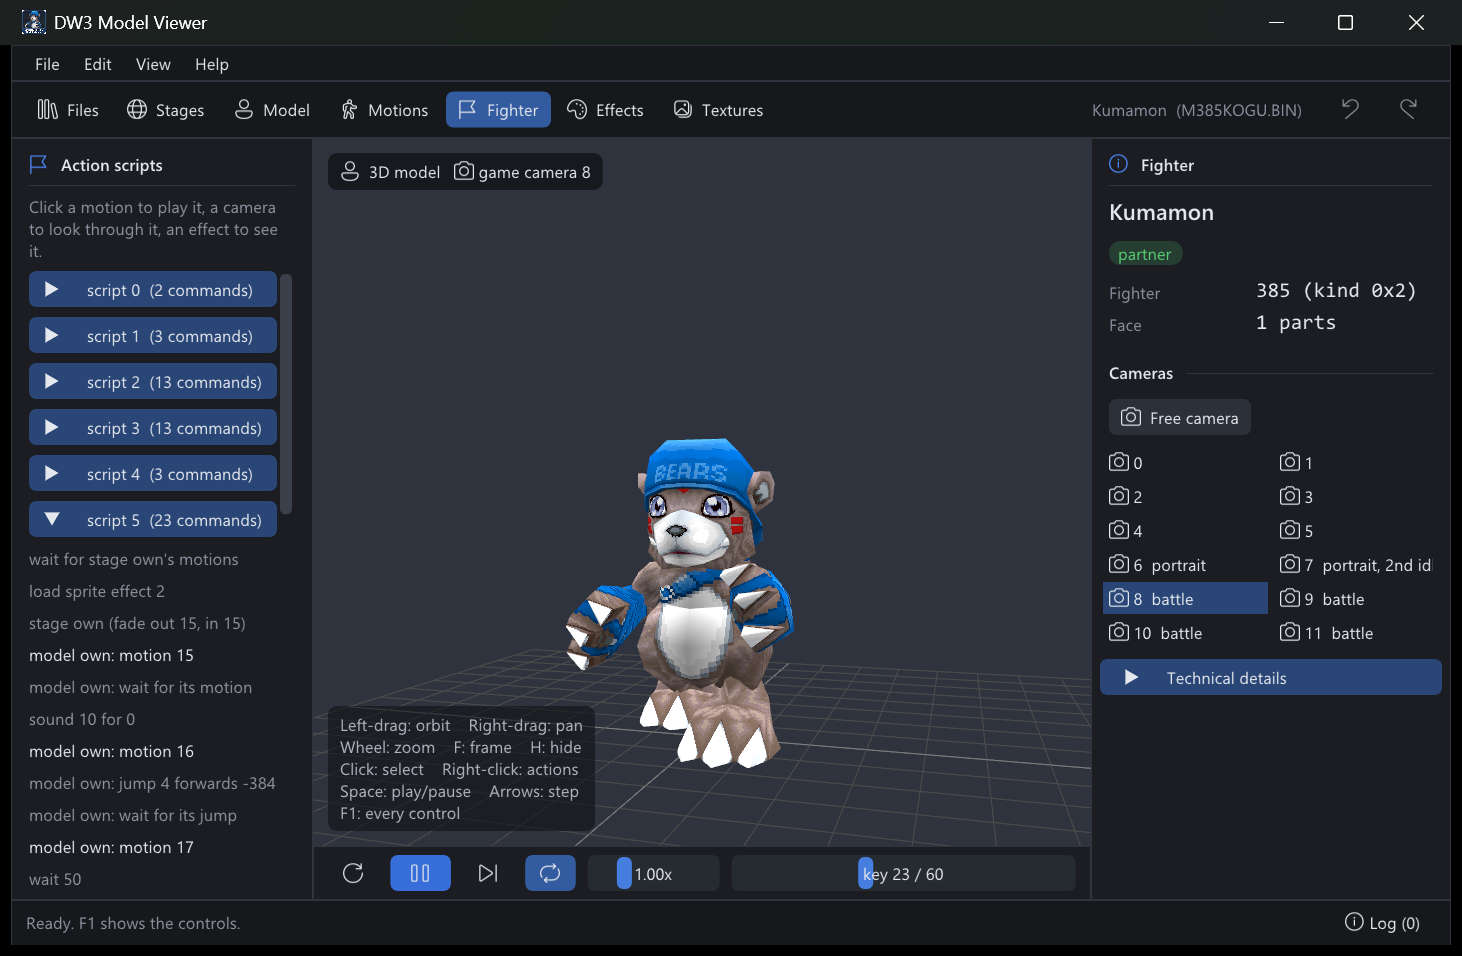
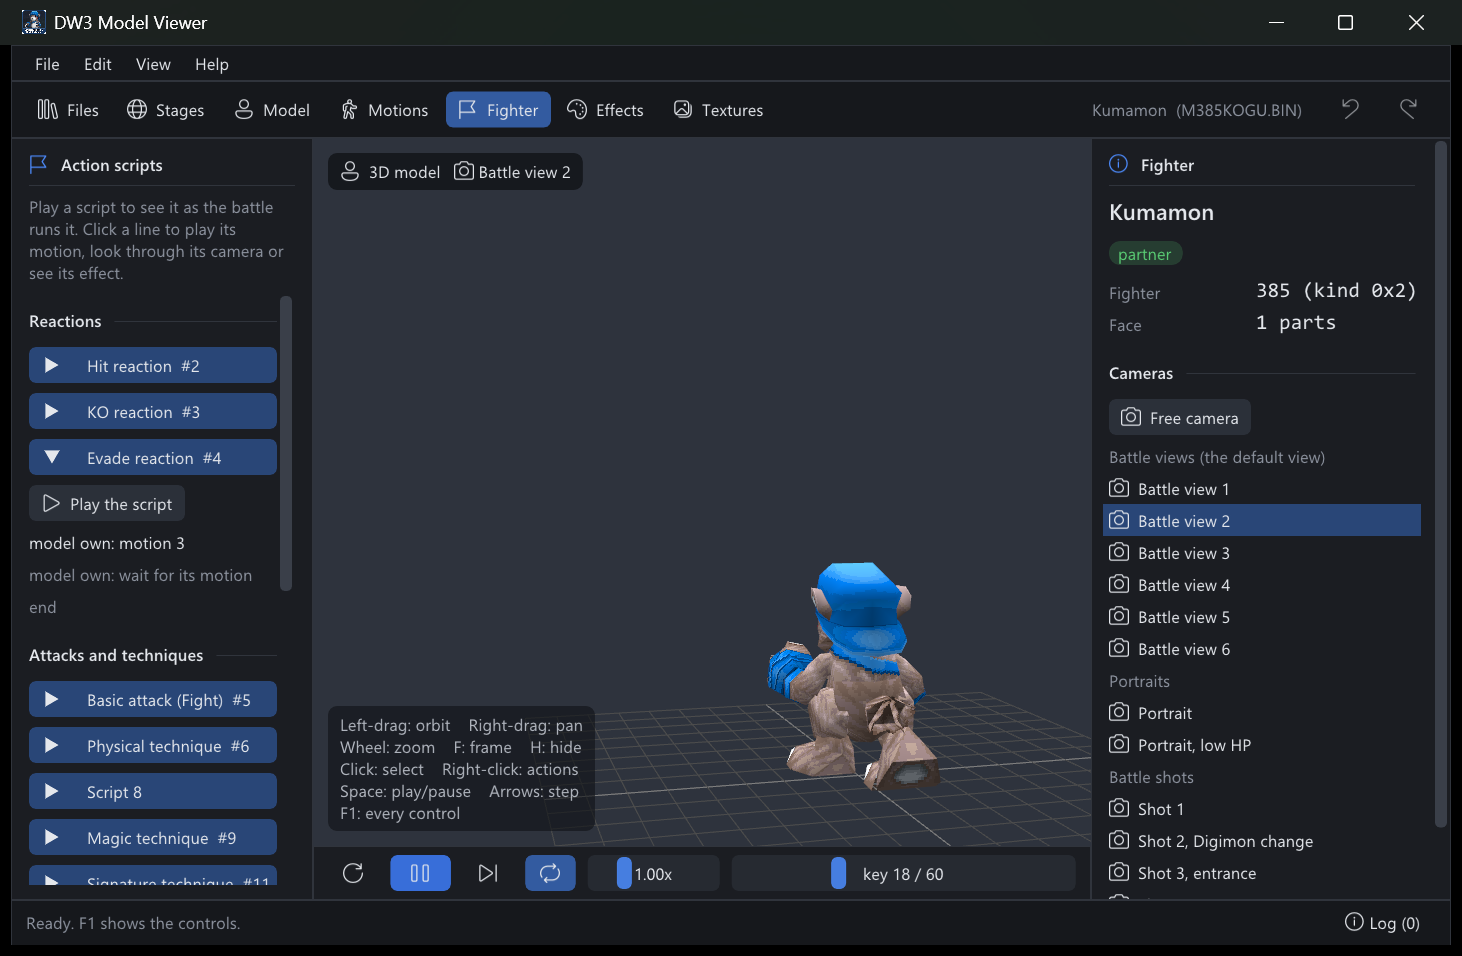
feat: name the scripts and cameras, and play a script with its sprite effects
- Group the Fighter's scripts by what they are (reactions, attacks and techniques, support and field) and name the ones the game's numbers tell
- Play a script as the battle runs it; its sprite effects draw over the view at their point in the world, with a notice when it is out of view
- Name the fighter's cameras by what the game uses each for: the battle's default views, the portraits and the battle shots
- Show an enemy's own battle view in its inspector
- Update the README and the Fighter screenshot

diff --git a/src/game.cpp b/src/game.cpp
@@ -86,6 +86,7 @@ void GameData::load(const std::string &files) {
                 memcpy(&f.face[i], &d[face + i * 10], sizeof(FaceRect));
                 f.faceUsed[i] = f.face[i].w != 0;
             }
+            if (f.enemy) f.cameraCount = rd16(&d[o + 0x44]);
             int cams = f.enemy ? std::min<int>(rd16(&d[o + 0x44]), 3) : 12;
             size_t pos = o + 0x1A, ref = pos + (f.enemy ? 3 : 12) * 6, proj = ref + (f.enemy ? 3 : 12) * 6;
             for (int i = 0; i < cams; i++) {
@@ -184,7 +185,7 @@ static std::vector<ScriptLine> read_script(const uint8_t *p, const uint8_t *end)
             const char *m = who(type);
             switch (cmd) {
             case 0:
-                if (arg == 0) l.text = fmt("model %s: wait for its motion", m);
+                if (arg == 0) l.text = fmt("model %s: wait for its motion", m), l.waitMotion = type == 0;
                 else if (arg == 1) l.text = fmt("model %s: back to idle", m), l.motion = type == 0 ? 1 : 0;
                 else l.text = fmt("model %s: motion %d", m, arg + 1), l.motion = type == 0 ? arg + 1 : 0;
                 break;
@@ -222,6 +223,7 @@ static std::vector<ScriptLine> read_script(const uint8_t *p, const uint8_t *end)
             } else {
                 int x = next(), y = next(), z = next();
                 l.text = fmt("sprite effect %s at %d, %d, %d", name.c_str(), x, y, z);
+                l.fxStart = true, l.fxOwn = e == 9999, l.pos[0] = x, l.pos[1] = y, l.pos[2] = z;
                 if (e != 9999) l.effect = e;
             }
             break;
@@ -246,8 +248,8 @@ static std::vector<ScriptLine> read_script(const uint8_t *p, const uint8_t *end)
                 l.text = fmt("camera: at %d, %d, %d looking at %d, %d, %d, projection %d", v[0], v[1], v[2], v[3], v[4], v[5], v[13]) + when;
             } else {
                 int id = next();
-                if (id >= 1 && id <= 4) l.text = fmt("camera: partner's %d", id + 7), l.camera = id + 7;
-                else if (id >= 5 && id <= 7) l.text = fmt("camera: enemy's %d", id - 5), l.camera = 100 + id - 5;
+                if (id >= 1 && id <= 4) l.text = fmt("camera: partner's shot %d", id), l.camera = id + 7;
+                else if (id >= 5 && id <= 7) l.text = fmt("camera: enemy's shot %d", id - 4), l.camera = 100 + id - 5;
                 else l.text = "camera: the enemy's view";
                 l.text += when;
             }
@@ -275,7 +277,7 @@ static std::vector<ScriptLine> read_script(const uint8_t *p, const uint8_t *end)
             l.text = s == 0x62 || s == 0x63 ? fmt("hit sound for %d", t) : fmt("sound %d for %d", s, t);
             break;
         }
-        case 11: l.text = fmt("wait %d", next()); break;
+        case 11: l.waitTicks = next(), l.text = fmt("wait %d", l.waitTicks); break;
         default:
             l.text = fmt("unknown command %d: the game would stop here", op);
             out.push_back(l);

diff --git a/src/game.h b/src/game.h
@@ -29,6 +29,7 @@ struct Fighter {
     int modelFid, modelEntry, motionsFid, motionsEntry, effectsFid, effectsEntry;
     std::string name;
     int distance, height; /* where it stands in battle (FighterInfo) */
+    int cameraCount = 0;  /* an enemy's own: the battle's default view is its partner's camera of this number - 1 */
     bool faceUsed[16];
     FaceRect face[16];
     std::vector<GameCamera> cameras; /* 12 for a partner, an enemy's own count */
@@ -49,6 +50,10 @@ struct ScriptLine {
     int motion = 0;  /* a motion it plays on its own side's model, 1-based */
     int camera = -1; /* a fighter camera: 0-11 the partner's, 100-102 the enemy's */
     int effect = -1; /* a sprite effect it starts */
+    bool fxStart = false, fxOwn = false; /* it starts one, at POS; its id 9999: the technique's own */
+    int pos[3] = {0, 0, 0};
+    int waitTicks = -1;       /* a wait, in ticks */
+    bool waitMotion = false;  /* waits for its own model's motion to end */
 };
 
 struct GameData {

diff --git a/README.md b/README.md
@@ -41,13 +41,28 @@ trademark of its owners.
   - the blends between motions play as the game plays them.
 - **Fighter** (from the battle's fighters' file, SMDLDATA.PRO):
   - each fighter that uses the model, partner or enemy;
-  - its cameras: a partner's 12 (the portraits, the battle shots), an enemy's 3, seen
-    as the game frames them;
+  - its cameras, seen as the game frames them and named by what the game uses each
+    for: a partner's six battle views (the default view the battle returns to between
+    actions; the game picks one by the enemy's number of cameras), its two portraits
+    (the battle menu's, and the one for low HP) and its four battle shots (the
+    second is the Digimon change's, the third the entrance's); an enemy's three
+    shots (the third is its entrance's);
   - its action scripts, decoded: the motions, cameras, effects, sounds and waits of
-    each technique and reaction. Click a motion to play it, a camera to look through
-    it.
+    each technique and reaction, grouped by what they are: the reactions to a hit, a
+    knockout and an evade; the basic attack; the physical, magic, signature and DNA
+    techniques; support and field ones. The scripts that no technique's number names
+    stay as "Script N" (hover one for what uses it). Click a motion to play it, a
+    camera to look through it;
+  - **Play the script** runs it as the battle does (the motions and their waits, the
+    cameras, the sprite effects), and each sprite effect draws over the view where the
+    battle puts it, at its point in the world (an attack's is at the enemy's side,
+    out of sight of the partner's own cameras: the view says so) and the screen's
+    320x240 scale. It
+    leaves out the jumps and moves, the other side's fighter, the sounds and the
+    fades, and shows no effect for a script's "own" one (the technique's) except the
+    Fight command's.
 
-  <img src="docs/img/fighter.png" alt="Kumamon seen through one of its battle cameras, with an action script decoded on the left" width="720">
+  <img src="docs/img/fighter.png" alt="Kumamon through one of its battle cameras, with its action scripts grouped by what they are" width="720">
 - **Effects** (the battle's 2D effects: hit sparks, techniques' sprites):
   - every sprite effect, played as the battle plays it: each of its sprite
     animations' frames, palettes, offsets, scales and rotations, blended as the PSX
